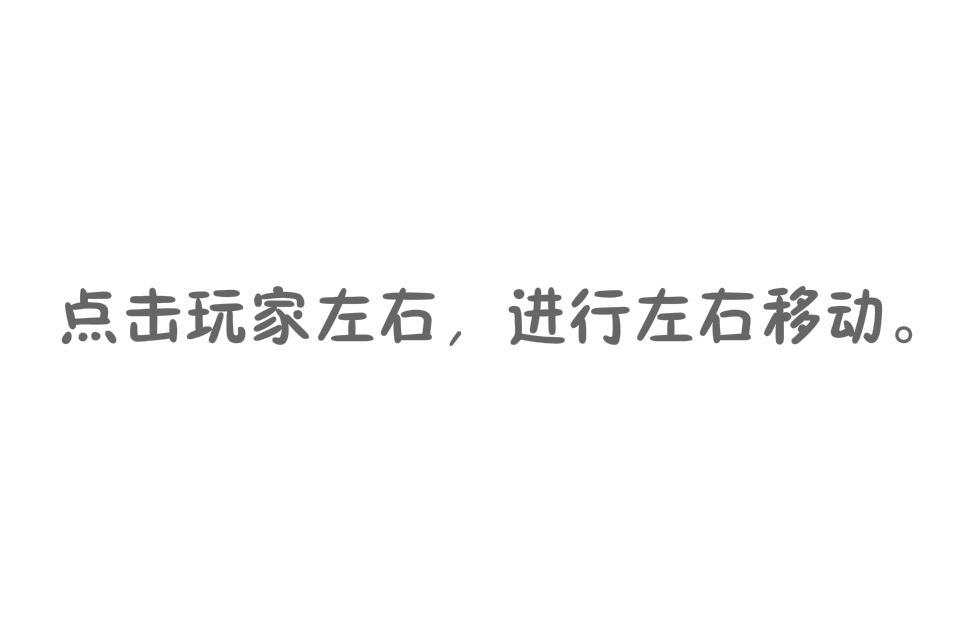
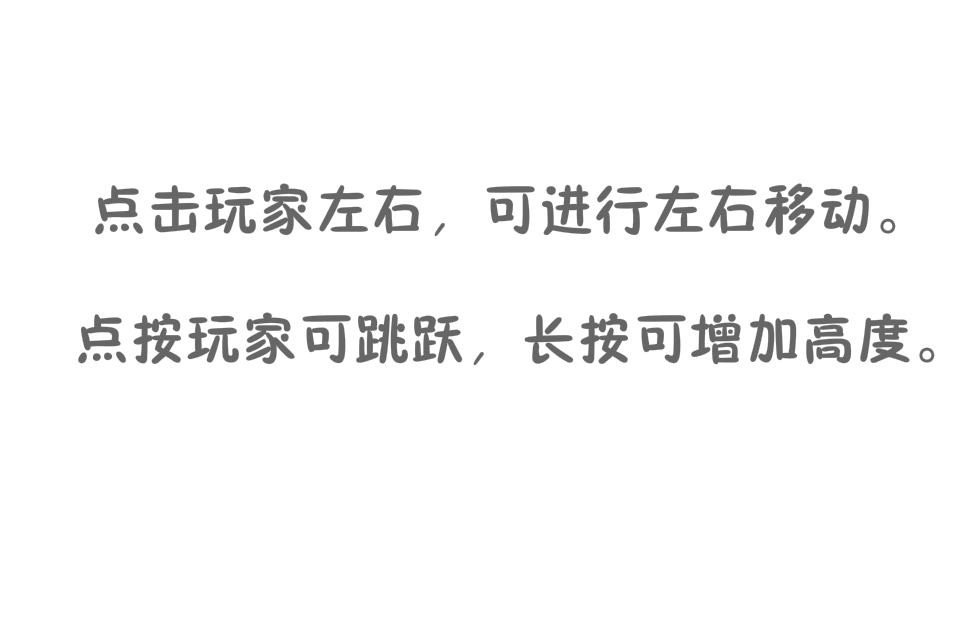
玩家大小及说明文字调整

diff --git a/TLGB1.0-Mobile/src/project.js b/TLGB1.0-Mobile/src/project.js
@@ -1,1 +1,1 @@
-require=function e(c,t,o){function n(a,i){if(!t[a]){if(!c[a]){var u="function"==typeof require&&require;if(!i&&u)return u(a,!0);if(r)return r(a,!0);var s=new Error("Cannot find module '"+a+"'");throw s.code="MODULE_NOT_FOUND",s}var l=t[a]={exports:{}};c[a][0].call(l.exports,function(e){var t=c[a][1][e];return n(t||e)},l,l.exports,e,c,t,o)}return t[a].exports}for(var r="function"==typeof require&&require,a=0;a<o.length;a++)n(o[a]);return n}({GameMainControll:[function(e,c,t){"use strict";cc._RF.push(c,"d91bf1wXiVA2pSBJ0yZo0ZN","GameMainControll"),cc.Class({extends:cc.Component,properties:{bgAudio:{url:cc.AudioClip,default:null},playerPre:{type:cc.Prefab,default:null},npcPre:{type:cc.Prefab,default:null},npcNewTime:{type:cc.Float,default:.9},playerY:{type:cc.Integer,default:-240},_gameHeight:345,boomAudio:{url:cc.AudioClip,default:null},heartPre:{type:cc.Prefab,default:null},heartX:{type:cc.Integer,default:-453},heartY:{type:cc.Integer,default:-285},heartBronkenPre:{type:cc.Prefab,default:null},heartCount:{type:cc.Integer,default:3},scoreNodeGroupPre:{type:cc.Prefab,default:null}},init:function(){this.player=cc.instantiate(this.playerPre),this.node.addChild(this.player);var e=this.node.width/2-30,c=cc.randomMinus1To1()*e;this.player.setPosition(cc.p(c,this.playerY));var t=this.heartX+60*this.newHeart();this.scoreGroup=cc.instantiate(this.scoreNodeGroupPre),this.node.addChild(this.scoreGroup),this.scoreGroup.setPosition(cc.p(t,this.heartY)),this.scoreGroup.children[1].string=0},newNpc:function(){this.npc=cc.instantiate(this.npcPre),this.node.addChild(this.npc);var e=this.node.width/2-40,c=cc.randomMinus1To1()*e;this.npc.setPosition(cc.p(c,this._gameHeight))},newHeart:function(){for(var e=0;e<this.heartCount;)this.heart=cc.instantiate(this.heartPre),this.node.addChild(this.heart),this.heart.setPosition(cc.p(this.heartX+47*e++,this.heartY));return e},onLoad:function(){cc.director.getCollisionManager().enabled=!0,cc.director.preloadScene("GameOver"),cc.audioEngine.play(this.bgAudio,!0,.5),this.init(),cc.director.getScheduler().schedule(function(){this.newNpc()},this,this.npcNewTime)},update:function(e){(!cc.find("Canvas/heart")||this.player.y>this.node.height/2)&&(cc.sys.localStorage.setItem("score",cc.find("Canvas/scoreNode/score").getComponent(cc.Label).string),cc.director.loadScene("GameOver"))}}),cc._RF.pop()},{}],GameOverControll:[function(e,c,t){"use strict";cc._RF.push(c,"6798eBIjWFPPa/CNpUEy/ef","GameOverControll"),cc.Class({extends:cc.Component,properties:{gameOverAudio:{url:cc.AudioClip,default:null},agaginBtn:{type:cc.Node,default:null},scorGroup:{type:cc.Node,default:null}},actionAll:function(){var e=cc.scaleTo(1,.7,.7),c=cc.scaleTo(1,1,1),t=cc.sequence(e,c),o=cc.repeatForever(t);this.agaginBtn.runAction(o);var n=cc.rotateBy(3,360),o=cc.repeatForever(n);this.agaginBtn.runAction(o);var r=cc.rotateBy(1,13),a=cc.rotateTo(1,13),i=cc.sequence(r,a),u=cc.repeatForever(i);this.scorGroup.runAction(u)},againControll:function(){this.agaginBtn.on("touchstart",function(){cc.audioEngine.stopAll(),cc.director.loadScene("GameMain")})},onLoad:function(){cc.director.preloadScene("GameMain"),cc.audioEngine.stopAll(),cc.audioEngine.play(this.gameOverAudio,!1,.5),cc.find("Canvas/score_Group/score").getComponent(cc.Label).string="最终得分："+cc.sys.localStorage.getItem("score"),this.actionAll(),this.againControll()}}),cc._RF.pop()},{}],GameStartControll:[function(e,c,t){"use strict";cc._RF.push(c,"ae1a1n0HPZH66bBC8xtlkwK","GameStartControll"),cc.Class({extends:cc.Component,properties:{bgAduio:{url:cc.AudioClip,default:null},title_endlish:{type:cc.Node,default:null},TLGB:{type:cc.Node,default:null},skeleton:{type:cc.Node,default:null},startBtn:{type:cc.Node,default:null},pendant:{type:cc.Node,default:null}},action:function(){var e=cc.fadeOut(1),c=cc.fadeIn(1),t=cc.scaleTo(1,.7,.8),o=cc.scaleTo(1,.8,.9),n=cc.sequence(t,e,c,o),r=cc.repeatForever(n);this.title_endlish.runAction(r);var a=cc.rotateBy(4,360),i=(cc.rotateBy(1,0),cc.repeatForever(a));this.TLGB.runAction(i);var u=cc.rotateTo(.5,15),s=cc.rotateTo(.5,-15),l=cc.sequence(u,s),d=cc.repeatForever(l);this.skeleton.runAction(d);var p=cc.rotateTo(1,20),h=cc.rotateTo(1,-20),f=cc.sequence(p,h),m=cc.repeatForever(f);this.startBtn.runAction(m);var v=cc.rotateTo(1,20),C=cc.rotateTo(1,-20),g=cc.sequence(v,C),y=cc.repeatForever(g);this.pendant.runAction(y)},onLoad:function(){cc.audioEngine.play(this.bgAduio,!0,.5),this.action()}}),cc._RF.pop()},{}],Heart:[function(e,c,t){"use strict";cc._RF.push(c,"04c9eeqttFG4aSY/zhz7PkX","Heart"),cc.Class({extends:cc.Component,properties:{},start:function(){}}),cc._RF.pop()},{}],Npc:[function(e,c,t){"use strict";cc._RF.push(c,"296e0ykWC5N0oc4R1bthx4J","Npc");var o=e("Heart");cc.Class({extends:cc.Component,properties:{boomAudio:{url:cc.AudioClip,default:null},heartDestroyAudio:{url:cc.AudioClip,default:null},floorY:{type:cc.Integer,default:-238}},npcAction:function(){var e=cc.scaleTo(.1,.8,.9),c=cc.scaleTo(.1,1,1),t=cc.sequence(e,c);this.node.runAction(cc.repeatForever(t))},onLoad:function(){this.npcAction()},onCollisionEnter:function(e){cc.audioEngine.play(this.boomAudio,!1,.5),this.node.destroy();var c=cc.find("Canvas/scoreNode/score").getComponent(cc.Label);c.string=parseInt(c.string)+1},update:function(e){cc.random0To1();if(--this.node.y<=this.floorY){this.node.destroy(),cc.audioEngine.play(this.heartDestroyAudio,!1,.5);var c=cc.find("Canvas/heart");c&&c.getComponent(o).node.destroy()}}}),cc._RF.pop()},{Heart:"Heart"}],PageViewControll:[function(e,c,t){"use strict";cc._RF.push(c,"a9beb/cxE9F6IU5sR+bysCn","PageViewControll"),cc.Class({extends:cc.Component,properties:{pageView:{type:cc.Node,default:null}},onLoad:function(){},update:function(e){}}),cc._RF.pop()},{}],Player:[function(e,c,t){"use strict";cc._RF.push(c,"72d38QWVwBBJqsn/MHkCeb9","Player");var o=e("GameMainControll");cc.Class({extends:cc.Component,properties:{jumpAudio:{url:cc.AudioClip,default:null},touchAudio:{url:cc.AudioClip,default:null},jumpHeight:{type:cc.Integer,default:90},moveSpeed:{type:cc.Integer,default:40},moveJump:{type:cc.Integer,default:10},playerY:{type:cc.Integer,default:-240},_toucheTime:1,_bound:464},playerControll:function(){var e=this,c=cc.director.getScheduler();c.schedule(function(){e._toucheTime++},e,.2);var t,n=cc.scaleTo(.5,.7,.8),r=cc.scaleTo(.3,.8,.9),a=cc.repeatForever(cc.sequence(n,r));e.node.on(cc.Node.EventType.TOUCH_START,function(){e._toucheTime=1,c.resumeTarget(e),e.node.runAction(a),t=cc.audioEngine.play(e.touchAudio,!0,.5),c.unscheduleUpdateForTarget(e)}),e.node.on(cc.Node.EventType.TOUCH_END,function(){var o=e.jumpHeight*e._toucheTime;c.pauseTarget(e),cc.audioEngine.stop(t),e.node.stopAction(a);var n=cc.scaleTo(.2,1,1);e.node.runAction(n),cc.audioEngine.play(e.jumpAudio,!1,.5);var r=cc.moveBy(.5,0,o),i=cc.moveBy(.45,0,-o);e.node.runAction(cc.sequence(r,i))}),e.node.on(cc.Node.EventType.TOUCH_CANCEL,function(){var o=e.jumpHeight*e._toucheTime;c.pauseTarget(e),cc.audioEngine.stop(t),e.node.stopAction(a);var n=cc.scaleTo(.2,1,1);e.node.runAction(n),cc.audioEngine.play(e.jumpAudio,!1,.5);var r=cc.moveBy(.5,0,o),i=cc.moveBy(.45,0,-o);e.node.runAction(cc.sequence(r,i))});var i=cc.find("Canvas").getComponent(o),u={event:cc.EventListener.TOUCH_ONE_BY_ONE,onTouchBegan:function(c,t){var o=t.getCurrentTarget().convertToNodeSpace(c.getLocation()),n=e.node.x,r=-i.node.width/2+15,a=i.node.width/2-15;if(o.x>30&&n<a){l=(l=e._bound-(n+e.moveSpeed))<0?e.moveSpeed+l:e.moveSpeed,cc.audioEngine.play(e.jumpAudio,!1,.5);var u=cc.moveBy(.1,cc.p(l,e.moveJump)),s=cc.moveBy(.2,cc.p(0,-e.moveJump));e.node.runAction(cc.sequence(u,s))}if(o.x<0&&n>r){var l=n-e.moveSpeed+e._bound;l=l<0?e.moveSpeed+l:e.moveSpeed,cc.audioEngine.play(e.jumpAudio,!1,.5);var u=cc.moveBy(.1,cc.p(-l,e.moveJump)),s=cc.moveBy(.2,cc.p(0,-e.moveJump));e.node.runAction(cc.sequence(u,s))}return!0}};cc.eventManager.addListener(u,e.node)},onCollisionEnter:function(e){if(this.node.y<this.playerY+3){var c=cc.find("Canvas/scoreNode/score").getComponent(cc.Label);c.string=parseInt(c.string)-1,cc.sys.localStorage.setItem("score",c.string),cc.director.loadScene("GameOver")}},onLoad:function(){cc.director.preloadScene("GameOver"),this.playerControll()}}),cc._RF.pop()},{GameMainControll:"GameMainControll"}],StartBtnControll:[function(e,c,t){"use strict";cc._RF.push(c,"41a1fVT/OBNP46k+Q9lLfmy","StartBtnControll"),cc.Class({extends:cc.Component,properties:{},startBtnControll:function(){this.node.on(cc.Node.EventType.TOUCH_START,function(){cc.audioEngine.stopAll(),cc.director.loadScene("GameExplain")})},onLoad:function(){cc.director.preloadScene("GameExplain"),this.startBtnControll()}}),cc._RF.pop()},{}],StartGame:[function(e,c,t){"use strict";cc._RF.push(c,"1d5e1RE+SxKKolQ5/Whcq3O","StartGame"),cc.Class({extends:cc.Component,properties:{},startControll:function(){this.node.on(cc.Node.EventType.TOUCH_START,function(){cc.director.loadScene("GameMain")})},onLoad:function(){cc.director.preloadScene("GameMain"),this.startControll()}}),cc._RF.pop()},{}]},{},["GameMainControll","GameOverControll","GameStartControll","Heart","Npc","PageViewControll","Player","StartBtnControll","StartGame"]);
+require=function e(c,t,o){function n(a,i){if(!t[a]){if(!c[a]){var u="function"==typeof require&&require;if(!i&&u)return u(a,!0);if(r)return r(a,!0);var s=new Error("Cannot find module '"+a+"'");throw s.code="MODULE_NOT_FOUND",s}var l=t[a]={exports:{}};c[a][0].call(l.exports,function(e){var t=c[a][1][e];return n(t||e)},l,l.exports,e,c,t,o)}return t[a].exports}for(var r="function"==typeof require&&require,a=0;a<o.length;a++)n(o[a]);return n}({GameMainControll:[function(e,c,t){"use strict";cc._RF.push(c,"d91bf1wXiVA2pSBJ0yZo0ZN","GameMainControll"),cc.Class({extends:cc.Component,properties:{bgAudio:{url:cc.AudioClip,default:null},playerPre:{type:cc.Prefab,default:null},npcPre:{type:cc.Prefab,default:null},npcNewTime:{type:cc.Float,default:.9},playerY:{type:cc.Integer,default:-233},_gameHeight:345,boomAudio:{url:cc.AudioClip,default:null},heartPre:{type:cc.Prefab,default:null},heartX:{type:cc.Integer,default:-453},heartY:{type:cc.Integer,default:-285},heartBronkenPre:{type:cc.Prefab,default:null},heartCount:{type:cc.Integer,default:3},scoreNodeGroupPre:{type:cc.Prefab,default:null}},init:function(){this.player=cc.instantiate(this.playerPre),this.node.addChild(this.player);var e=this.node.width/2-40,c=cc.randomMinus1To1()*e;this.player.setPosition(cc.p(c,this.playerY));var t=this.heartX+60*this.newHeart();this.scoreGroup=cc.instantiate(this.scoreNodeGroupPre),this.node.addChild(this.scoreGroup),this.scoreGroup.setPosition(cc.p(t,this.heartY)),this.scoreGroup.children[1].string=0},newNpc:function(){this.npc=cc.instantiate(this.npcPre),this.node.addChild(this.npc);var e=this.node.width/2-40,c=cc.randomMinus1To1()*e;this.npc.setPosition(cc.p(c,this._gameHeight))},newHeart:function(){for(var e=0;e<this.heartCount;)this.heart=cc.instantiate(this.heartPre),this.node.addChild(this.heart),this.heart.setPosition(cc.p(this.heartX+47*e++,this.heartY));return e},onLoad:function(){cc.director.getCollisionManager().enabled=!0,cc.director.preloadScene("GameOver"),cc.audioEngine.play(this.bgAudio,!0,.5),this.init(),cc.director.getScheduler().schedule(function(){this.newNpc()},this,this.npcNewTime)},update:function(e){(!cc.find("Canvas/heart")||this.player.y>this.node.height/2)&&(cc.sys.localStorage.setItem("score",cc.find("Canvas/scoreNode/score").getComponent(cc.Label).string),cc.director.loadScene("GameOver"))}}),cc._RF.pop()},{}],GameOverControll:[function(e,c,t){"use strict";cc._RF.push(c,"6798eBIjWFPPa/CNpUEy/ef","GameOverControll"),cc.Class({extends:cc.Component,properties:{gameOverAudio:{url:cc.AudioClip,default:null},agaginBtn:{type:cc.Node,default:null},scorGroup:{type:cc.Node,default:null}},actionAll:function(){var e=cc.scaleTo(1,.7,.7),c=cc.scaleTo(1,1,1),t=cc.sequence(e,c),o=cc.repeatForever(t);this.agaginBtn.runAction(o);var n=cc.rotateBy(3,360),o=cc.repeatForever(n);this.agaginBtn.runAction(o);var r=cc.rotateBy(1,13),a=cc.rotateTo(1,13),i=cc.sequence(r,a),u=cc.repeatForever(i);this.scorGroup.runAction(u)},againControll:function(){this.agaginBtn.on("touchstart",function(){cc.audioEngine.stopAll(),cc.director.loadScene("GameMain")})},onLoad:function(){cc.director.preloadScene("GameMain"),cc.audioEngine.stopAll(),cc.audioEngine.play(this.gameOverAudio,!1,.5),cc.find("Canvas/score_Group/score").getComponent(cc.Label).string="最终得分："+cc.sys.localStorage.getItem("score"),this.actionAll(),this.againControll()}}),cc._RF.pop()},{}],GameStartControll:[function(e,c,t){"use strict";cc._RF.push(c,"ae1a1n0HPZH66bBC8xtlkwK","GameStartControll"),cc.Class({extends:cc.Component,properties:{bgAduio:{url:cc.AudioClip,default:null},title_endlish:{type:cc.Node,default:null},TLGB:{type:cc.Node,default:null},skeleton:{type:cc.Node,default:null},startBtn:{type:cc.Node,default:null}},action:function(){var e=cc.fadeOut(1),c=cc.fadeIn(1),t=cc.scaleTo(1,.7,.8),o=cc.scaleTo(1,.8,.9),n=cc.sequence(t,e,c,o),r=cc.repeatForever(n);this.title_endlish.runAction(r);var a=cc.rotateBy(4,360),i=(cc.rotateBy(1,0),cc.repeatForever(a));this.TLGB.runAction(i);var u=cc.rotateTo(.5,15),s=cc.rotateTo(.5,-15),l=cc.sequence(u,s),d=cc.repeatForever(l);this.skeleton.runAction(d);var p=cc.rotateTo(1,20),h=cc.rotateTo(1,-20),f=cc.sequence(p,h),m=cc.repeatForever(f);this.startBtn.runAction(m)},onLoad:function(){cc.audioEngine.play(this.bgAduio,!0,.5),this.action()}}),cc._RF.pop()},{}],Heart:[function(e,c,t){"use strict";cc._RF.push(c,"04c9eeqttFG4aSY/zhz7PkX","Heart"),cc.Class({extends:cc.Component,properties:{},start:function(){}}),cc._RF.pop()},{}],Npc:[function(e,c,t){"use strict";cc._RF.push(c,"296e0ykWC5N0oc4R1bthx4J","Npc");var o=e("Heart");cc.Class({extends:cc.Component,properties:{boomAudio:{url:cc.AudioClip,default:null},heartDestroyAudio:{url:cc.AudioClip,default:null},floorY:{type:cc.Integer,default:-233}},npcAction:function(){var e=cc.scaleTo(.1,.8,.9),c=cc.scaleTo(.1,1,1),t=cc.sequence(e,c);this.node.runAction(cc.repeatForever(t))},onLoad:function(){this.npcAction()},onCollisionEnter:function(e){cc.audioEngine.play(this.boomAudio,!1,.5),this.node.destroy();var c=cc.find("Canvas/scoreNode/score").getComponent(cc.Label);c.string=parseInt(c.string)+1},update:function(e){cc.random0To1();if(--this.node.y<=this.floorY){this.node.destroy(),cc.audioEngine.play(this.heartDestroyAudio,!1,.5);var c=cc.find("Canvas/heart");c&&c.getComponent(o).node.destroy()}}}),cc._RF.pop()},{Heart:"Heart"}],PageViewControll:[function(e,c,t){"use strict";cc._RF.push(c,"a9beb/cxE9F6IU5sR+bysCn","PageViewControll"),cc.Class({extends:cc.Component,properties:{pageView:{type:cc.Node,default:null}},onLoad:function(){},update:function(e){}}),cc._RF.pop()},{}],Player:[function(e,c,t){"use strict";cc._RF.push(c,"72d38QWVwBBJqsn/MHkCeb9","Player");var o=e("GameMainControll");cc.Class({extends:cc.Component,properties:{jumpAudio:{url:cc.AudioClip,default:null},touchAudio:{url:cc.AudioClip,default:null},jumpHeight:{type:cc.Integer,default:90},moveSpeed:{type:cc.Integer,default:40},moveJump:{type:cc.Integer,default:10},playerY:{type:cc.Integer,default:-233},_toucheTime:1,_bound:464},playerControll:function(){var e=this,c=cc.director.getScheduler();c.schedule(function(){e._toucheTime++},e,.2);var t,n=cc.scaleTo(.5,.7,.8),r=cc.scaleTo(.3,.8,.9),a=cc.repeatForever(cc.sequence(n,r));e.node.on(cc.Node.EventType.TOUCH_START,function(){e._toucheTime=1,c.resumeTarget(e),e.node.runAction(a),t=cc.audioEngine.play(e.touchAudio,!0,.5),c.unscheduleUpdateForTarget(e)}),e.node.on(cc.Node.EventType.TOUCH_END,function(){var o=e.jumpHeight*e._toucheTime;c.pauseTarget(e),cc.audioEngine.stop(t),e.node.stopAction(a);var n=cc.scaleTo(.2,1,1);e.node.runAction(n),cc.audioEngine.play(e.jumpAudio,!1,.5);var r=cc.moveBy(.5,0,o),i=cc.moveBy(.45,0,-o);e.node.runAction(cc.sequence(r,i))}),e.node.on(cc.Node.EventType.TOUCH_CANCEL,function(){var o=e.jumpHeight*e._toucheTime;c.pauseTarget(e),cc.audioEngine.stop(t),e.node.stopAction(a);var n=cc.scaleTo(.2,1,1);e.node.runAction(n),cc.audioEngine.play(e.jumpAudio,!1,.5);var r=cc.moveBy(.5,0,o),i=cc.moveBy(.45,0,-o);e.node.runAction(cc.sequence(r,i))});var i=cc.find("Canvas").getComponent(o),u={event:cc.EventListener.TOUCH_ONE_BY_ONE,onTouchBegan:function(c,t){var o=t.getCurrentTarget().convertToNodeSpace(c.getLocation()),n=e.node.x,r=-i.node.width/2+15,a=i.node.width/2-15;if(o.x>40&&n<a){l=(l=e._bound-(n+e.moveSpeed))<0?e.moveSpeed+l:e.moveSpeed,cc.audioEngine.play(e.jumpAudio,!1,.5);var u=cc.moveBy(.1,cc.p(l,e.moveJump)),s=cc.moveBy(.2,cc.p(0,-e.moveJump));e.node.runAction(cc.sequence(u,s))}if(o.x<0&&n>r){var l=n-e.moveSpeed+e._bound;l=l<0?e.moveSpeed+l:e.moveSpeed,cc.audioEngine.play(e.jumpAudio,!1,.5);var u=cc.moveBy(.1,cc.p(-l,e.moveJump)),s=cc.moveBy(.2,cc.p(0,-e.moveJump));e.node.runAction(cc.sequence(u,s))}return!0}};cc.eventManager.addListener(u,e.node)},onCollisionEnter:function(e){if(this.node.y<this.playerY+3){var c=cc.find("Canvas/scoreNode/score").getComponent(cc.Label);c.string=parseInt(c.string)-1,cc.sys.localStorage.setItem("score",c.string),cc.director.loadScene("GameOver")}},onLoad:function(){cc.director.preloadScene("GameOver"),this.playerControll()}}),cc._RF.pop()},{GameMainControll:"GameMainControll"}],StartBtnControll:[function(e,c,t){"use strict";cc._RF.push(c,"41a1fVT/OBNP46k+Q9lLfmy","StartBtnControll"),cc.Class({extends:cc.Component,properties:{},startBtnControll:function(){this.node.on(cc.Node.EventType.TOUCH_START,function(){cc.audioEngine.stopAll(),cc.director.loadScene("GameExplain")})},onLoad:function(){cc.director.preloadScene("GameExplain"),this.startBtnControll()}}),cc._RF.pop()},{}],StartGame:[function(e,c,t){"use strict";cc._RF.push(c,"1d5e1RE+SxKKolQ5/Whcq3O","StartGame"),cc.Class({extends:cc.Component,properties:{},startControll:function(){this.node.on(cc.Node.EventType.TOUCH_START,function(){cc.director.loadScene("GameMain")})},onLoad:function(){cc.director.preloadScene("GameMain"),this.startControll()}}),cc._RF.pop()},{}]},{},["GameMainControll","GameOverControll","GameStartControll","Heart","Npc","PageViewControll","Player","StartBtnControll","StartGame"]);

diff --git a/TLGB1.0-Mobile/src/settings.js b/TLGB1.0-Mobile/src/settings.js
@@ -1,1 +1,1 @@
-window._CCSettings={"platform":"web-mobile","groupList":["default"],"collisionMatrix":[[true]],"rawAssets":{"assets":{"bePrkovulMDJhRgzMwbEeA":["Audios/GameOverAudio.mp3",0],"43NOYS3KtO3abnb4lA+p1R":["Audios/Jump.mp3",0],"4dKUELGw5M2anB+PSBUSIK":["Audios/Touch.mp3",0],"47lFsvBNRJeKEl4FSvUcUf":["Audios/boomAudio.mp3",0],"c2mzx1x4FFRqZmzOQjVuCj":["Audios/heartDestroy.mp3",0],"5ef/297hlBeK2qQ45lRLpr":["Audios/mainBgAduio.mp3",0],"6be8vUiUZJQLPXbwb47Sze":["Audios/startBgAudio.mp3",0],"05xGsdA0ROWoeVND2ly5Nu":["images/Explain1.png",1],"e1mIF0kwZC0JJtBXfnWOtd":["images/Explain2.png",1],"24CoFNaxBPioXSU7hf01aN":["images/Explain3.png",1],"a8WISRWItKgoEvcZ2/I4Gs":["images/TLGB1.png",1],"4do6+goMJFg7TGxDf9ng8N":["images/again.png",1],"d9xLqHA7pIAIq+xs/XopLo":["images/bg1.png",1],"62S4z+7ABES5axPLPKpzDO":["images/face/face.png",1],"afuOK0x+ZPY4Hzj21ilIx7":["images/gameOverBg.png",1],"9a+vuQmZ5PCZwBT0qOQcsC":["images/gamebg.png",1],"40c4sKvN5N1p7gU/92hBOP":["images/heart.png",1],"3ad7hVMOVMM7zIInuXFSxh":["images/heartBronken.png",1],"e22ObqtA5Es76vMI8KXus6":["images/player.png",1],"50ZBAB/blETr0pPe7cPon5":["images/score_Group.png",1],"60nwhYqRFJlYdvsclWKiZq":["images/skeleton.png",1],"1cYe73SmlKCL+TsRia0L9Z":["images/start.png",1],"69e1P59ktIx5w96YMqSis1":["images/titile_china.png",1],"bcPqk5ZwRPHoOp+ChBxAA6":["images/title_english.png",1],"30hjJ7o4tDo5DvnHolaBf/":["images/tree.png",1],"4f+4YOpXFLg5EBYemGcA6f":["images/xiaogui.png",1],"eaup03LkxCmK0ljAJQxpcQ":["images/吊坠.png",1],"02e6Br3HhDHKJf+1j+3Hrv":["images/蝙蝠.png",1]},"internal":{"d8HsitJHxOYqo801xBk8ev":["image/default_panel.png",1],"cf73jxyN9Jt47QTJU6ziYh":["image/default_progressbar.png",1],"99FwsL0hBG8bITfZ4/IwmK":["image/default_progressbar_bg.png",1],"4bq2fLGOZAmbhANV8Ec/iQ":["image/default_scrollbar_bg.png",1]}},"assetTypes":["cc.AudioClip","cc.Texture2D"],"launchScene":"db://assets/Scenes/GameStart.fire","scenes":[{"url":"db://assets/Scenes/GameStart.fire","uuid":0},{"url":"db://assets/Scenes/GameMain.fire","uuid":3},{"url":"db://assets/Scenes/GameOver.fire","uuid":4},{"url":"db://assets/Scenes/GameExplain.fire","uuid":2}],"packedAssets":{"029c2d4f1":["32ai77Y4ZH+YvPfzFLNH+w","35U/xLiU1GMZOe6bwvMwk1",0,"5dKX8JdUZAva5Rpio/6VUL","74oqpuGupH178BwSUVmgw1",1,"9749k9w7JPU4Bkl/B+u4jf","ea1hm6t7pAQLqvrxjS54Tj","f9oq57yNVM5Iw79SwdIvsY"],"03c9d2793":["07NJnBeLhOXLnay1ebRA3V","47h44M42NNCbPM/IR3j8te","675ovJ2tVK2aLYfgPUWOMv","76h6zD9/FOp7ZUtP2HkrbR",1,"8855/VlrRKd6H0MSRnFxAU","9bvaMerUlDyary99mJa6xp",2,"c9+lH/PwFGAY+AMl0bEdq3"],"085dca5c8":["01SZgOFJtI/7h4vs9bWnFM","0715iOGHdM8LkKWWKg6ICI","17VcjnO5RBcawhHy3sVu4a","23smhaYKNCVLX6sXxVvJ+a","4604/wV59EcKHc6JY/FgVk","49LXcpS65C/bR6FGcv1hmZ","67l4KgS3NPianRfN8kKp4t","7fWSa9FpRFcJ+JM4SO9XWe",3,"bf/fXeoB1BsYVnGeGooRBy","ce9Pe2P6FLPZmPRj84gxiJ","ebFsM6lG1DCKVEwmNATA8i","eddReWrQxByoV/f8HgKMej","ff9lAnXhVEFIdmgvmsPChc"],"0a5c19a5a":["28pFa2WiFHVLOl8FfMd5Bc","3fhKpUl/9L1Lx4b9JEc5Mm","71EQXO5gpO1oid0S2o9iIj",4]},"orientation":"","uuids":["4fujNLGptJIZ57YRsRqvV2","81OQVN+7dIxomtNHZQ8w5o","bbUc1G0CxGsrDLz++JoyDx","b5ZU51JrBFfLDLst7PWwDQ","78uJDwb+VLepwDbj1npipt"]};
+window._CCSettings={"platform":"web-mobile","groupList":["default"],"collisionMatrix":[[true]],"rawAssets":{"assets":{"bePrkovulMDJhRgzMwbEeA":["Audios/GameOverAudio.mp3",0],"43NOYS3KtO3abnb4lA+p1R":["Audios/Jump.mp3",0],"4dKUELGw5M2anB+PSBUSIK":["Audios/Touch.mp3",0],"47lFsvBNRJeKEl4FSvUcUf":["Audios/boomAudio.mp3",0],"c2mzx1x4FFRqZmzOQjVuCj":["Audios/heartDestroy.mp3",0],"5ef/297hlBeK2qQ45lRLpr":["Audios/mainBgAduio.mp3",0],"6be8vUiUZJQLPXbwb47Sze":["Audios/startBgAudio.mp3",0],"05xGsdA0ROWoeVND2ly5Nu":["images/Explain1.png",1],"e1mIF0kwZC0JJtBXfnWOtd":["images/Explain2.png",1],"24CoFNaxBPioXSU7hf01aN":["images/Explain3.png",1],"a8WISRWItKgoEvcZ2/I4Gs":["images/TLGB1.png",1],"4do6+goMJFg7TGxDf9ng8N":["images/again.png",1],"d9xLqHA7pIAIq+xs/XopLo":["images/bg1.png",1],"62S4z+7ABES5axPLPKpzDO":["images/face/face.png",1],"afuOK0x+ZPY4Hzj21ilIx7":["images/gameOverBg.png",1],"9a+vuQmZ5PCZwBT0qOQcsC":["images/gamebg.png",1],"40c4sKvN5N1p7gU/92hBOP":["images/heart.png",1],"3ad7hVMOVMM7zIInuXFSxh":["images/heartBronken.png",1],"e22ObqtA5Es76vMI8KXus6":["images/player.png",1],"50ZBAB/blETr0pPe7cPon5":["images/score_Group.png",1],"60nwhYqRFJlYdvsclWKiZq":["images/skeleton.png",1],"1cYe73SmlKCL+TsRia0L9Z":["images/start.png",1],"69e1P59ktIx5w96YMqSis1":["images/titile_china.png",1],"bcPqk5ZwRPHoOp+ChBxAA6":["images/title_english.png",1],"30hjJ7o4tDo5DvnHolaBf/":["images/tree.png",1],"4f+4YOpXFLg5EBYemGcA6f":["images/xiaogui.png",1],"02e6Br3HhDHKJf+1j+3Hrv":["images/蝙蝠.png",1]},"internal":{"d8HsitJHxOYqo801xBk8ev":["image/default_panel.png",1],"cf73jxyN9Jt47QTJU6ziYh":["image/default_progressbar.png",1],"99FwsL0hBG8bITfZ4/IwmK":["image/default_progressbar_bg.png",1],"4bq2fLGOZAmbhANV8Ec/iQ":["image/default_scrollbar_bg.png",1]}},"assetTypes":["cc.AudioClip","cc.Texture2D"],"launchScene":"db://assets/Scenes/GameStart.fire","scenes":[{"url":"db://assets/Scenes/GameStart.fire","uuid":3},{"url":"db://assets/Scenes/GameMain.fire","uuid":1},{"url":"db://assets/Scenes/GameOver.fire","uuid":2},{"url":"db://assets/Scenes/GameExplain.fire","uuid":0}],"packedAssets":{"03c9d2793":["07NJnBeLhOXLnay1ebRA3V","47h44M42NNCbPM/IR3j8te","675ovJ2tVK2aLYfgPUWOMv","76h6zD9/FOp7ZUtP2HkrbR",4,"8855/VlrRKd6H0MSRnFxAU","9bvaMerUlDyary99mJa6xp",0,"c9+lH/PwFGAY+AMl0bEdq3"],"085dca5c8":["01SZgOFJtI/7h4vs9bWnFM","0715iOGHdM8LkKWWKg6ICI","17VcjnO5RBcawhHy3sVu4a","23smhaYKNCVLX6sXxVvJ+a","4604/wV59EcKHc6JY/FgVk","49LXcpS65C/bR6FGcv1hmZ","67l4KgS3NPianRfN8kKp4t","7fWSa9FpRFcJ+JM4SO9XWe",1,"bf/fXeoB1BsYVnGeGooRBy","ce9Pe2P6FLPZmPRj84gxiJ","ebFsM6lG1DCKVEwmNATA8i","eddReWrQxByoV/f8HgKMej","ff9lAnXhVEFIdmgvmsPChc"],"0a5c19a5a":["28pFa2WiFHVLOl8FfMd5Bc","3fhKpUl/9L1Lx4b9JEc5Mm","71EQXO5gpO1oid0S2o9iIj",2],"0d74f6346":["32ai77Y4ZH+YvPfzFLNH+w",3,"5dKX8JdUZAva5Rpio/6VUL","74oqpuGupH178BwSUVmgw1",4,"9749k9w7JPU4Bkl/B+u4jf","ea1hm6t7pAQLqvrxjS54Tj","f9oq57yNVM5Iw79SwdIvsY"]},"orientation":"","uuids":["bbUc1G0CxGsrDLz++JoyDx","b5ZU51JrBFfLDLst7PWwDQ","78uJDwb+VLepwDbj1npipt","4fujNLGptJIZ57YRsRqvV2","81OQVN+7dIxomtNHZQ8w5o"]};
